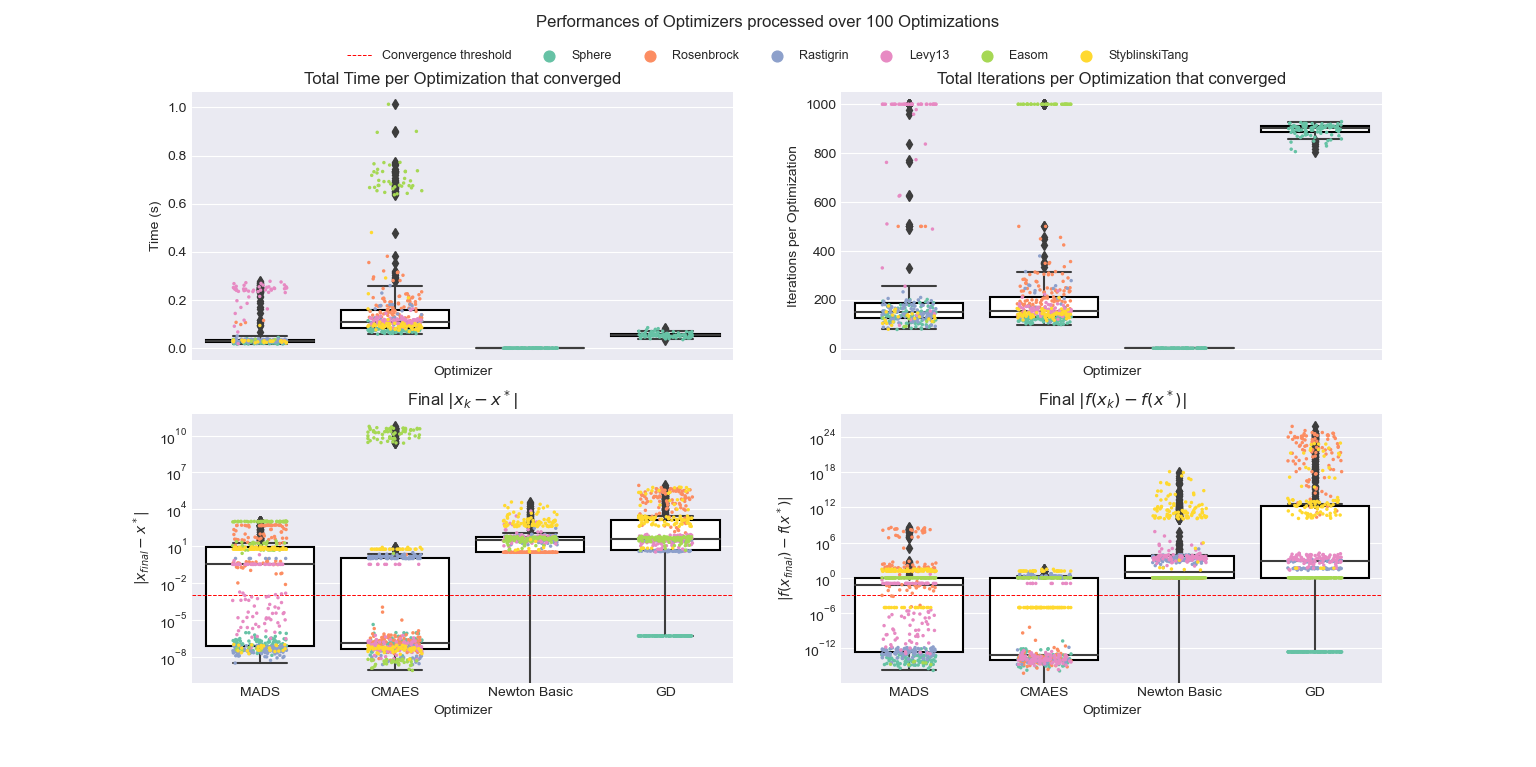
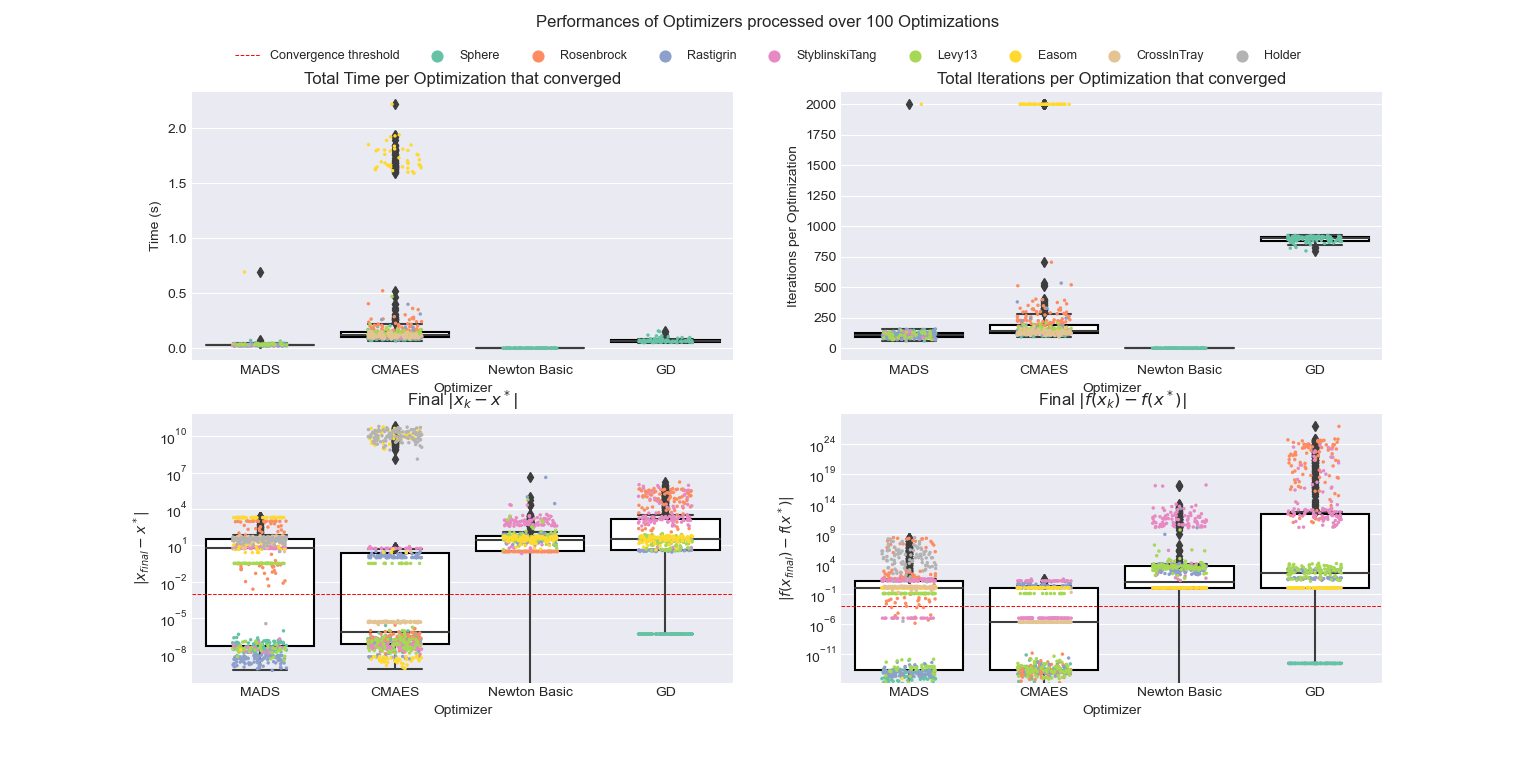
Compute statistics and print in terminal and in latex

diff --git a/utils/graph.py b/utils/graph.py
@@ -1,6 +1,7 @@
 import numpy as np
 import matplotlib.pyplot as plt
 import seaborn as sns
+import pandas as pd
 
 
 def plot_track(track, opt, name):
@@ -34,7 +35,7 @@ def plot_track(track, opt, name):
 
 def plot_box(data, func_names, n_iter, cv_threshold=1e-3):
     plt.style.use("seaborn-darkgrid")
-    fig, axes = plt.subplots(nrows=2, ncols=2, sharex=True)
+    fig, axes = plt.subplots(nrows=2, ncols=2)
 
     infos = {
         "Timestamp": (axes[0, 0], "Time (s)", "Total Time per Optimization that converged"),
@@ -42,6 +43,7 @@ def plot_box(data, func_names, n_iter, cv_threshold=1e-3):
         "Finalxoptdiff": (axes[1, 0], r"$\|x_{final}-x^*\|$", r"Final $\|x_k-x^*\|$"),
         "Finalfoptdiff": (axes[1, 1], r"$|f(x_{final})-f(x^*)|$", r"Final $|f(x_k)-f(x^*)|$"),
     }
+
     boxprops = {'edgecolor': 'k', 'facecolor': 'w'}
     for col in data.columns:
         if col != 'Optimizer' and col != 'Function':
@@ -52,12 +54,10 @@ def plot_box(data, func_names, n_iter, cv_threshold=1e-3):
                 ax.axhline(y=cv_threshold, color='r', linestyle='--', label='Convergence threshold', linewidth=0.7)
                 ax.set_yscale("log")
             else:
-                data_cv = data.loc[data["Finalfoptdiff"] <= cv_threshold]  # keep only optimizations that converged for stripplot
+                data_cv = data.loc[(data["Finalfoptdiff"] <= cv_threshold) & (data["Finalxoptdiff"] <= cv_threshold)]  # keep only optimizations that converged for stripplot
                 sns.boxplot(x=data['Optimizer'], y=data_cv[col], ax=ax, boxprops=boxprops)
                 sns.stripplot(x=data_cv['Optimizer'], y=data_cv[col], jitter=0.2, size=2.5, ax=ax, hue=data['Function'], palette="Set2")
             ax.set_ylabel(infos[col][1])
-            if col in ["Finalxoptdiff", "Finalfoptdiff"]:
-                ax.set_yscale("log")
             ax.set_title(infos[col][2])
             if col != "Finalfoptdiff":
                 ax.legend_.remove()  # removing subplots legends
@@ -68,3 +68,90 @@ def plot_box(data, func_names, n_iter, cv_threshold=1e-3):
     fig.legend(handles, labels, ncol=len(func_names) + 1, loc='upper center', bbox_to_anchor=(0.5, 0.95), prop={'size': 9})
 
     fig.suptitle("Performances of Optimizers processed over %d Optimizations" % (n_iter))
+
+def print_table(data, opts_list, func_names, n_iter, cv_matrix, print_setup="{:.1f}%", table_title="Table", latex=False):
+    width = 15
+    add_width_first_col = 10
+    nb_col = (len(func_names) + 1)
+    total_line_width = nb_col * (width + 1) + add_width_first_col + 1
+    for name in func_names: # adjusting total line width for title
+        if len(name) + 2 > width:
+            total_line_width += len(name) + 2 - width
+    print("-" * (total_line_width))
+    print("|" + table_title.center(total_line_width - 2) + "|")
+    print("-" * (total_line_width))
+    first_line = "|" + "Optimizer".center(width + add_width_first_col) + "|"
+    for name in func_names:
+        first_line += name.center(max(width, len(name) + 2)) + "|"
+    print(first_line)
+    print("-" * (total_line_width))
+    for opt in opts_list:
+        line = "|" + opt.center(width + add_width_first_col) + "|"
+        for name in func_names:
+            if cv_matrix.loc[opt, name]:
+                line += print_setup.format(data.loc[opt, name]).center(max(width, len(name) + 2)) + "|"
+            else:
+                if "%" in print_setup:
+                    line += print_setup.format(0).center(max(width, len(name) + 2)) + "|"
+                else:
+                    line += "/".center(max(width, len(name) + 2)) + "|"
+        print(line)
+    print("-" * (total_line_width) + "\n")
+
+    if latex:
+        print(table_title)
+        first_line = "Optimizer"
+        for name in func_names:
+            first_line += " & " + name
+        print(first_line + " \\\\")
+        for opt in opts_list:
+            line = opt
+            for name in func_names:
+                if cv_matrix.loc[opt, name]:
+                    line += " & " + print_setup.format(data.loc[opt, name])
+                else:
+                    if "%" in print_setup:
+                        line += " & " + print_setup.format(0)
+                    else:
+                        line += " & /"
+            print(line.replace("%", "\%") + " \\\\")
+
+def print_statistics(data, opts_list, func_names, n_iter, cv_threshold, latex=False):
+    data_cv = data.loc[(data["Finalfoptdiff"] <= cv_threshold) & (data["Finalxoptdiff"] <= cv_threshold)]
+    cv_stats = pd.pivot_table(data_cv, values='Finalfoptdiff', index='Optimizer', columns='Function', aggfunc=len, fill_value=0)
+    cv_stats = cv_stats.multiply(100/n_iter)
+    time_stats = pd.pivot_table(data_cv, values=['Timestamp', 'NbIter'], index='Optimizer', columns='Function', aggfunc=np.mean, fill_value=0)
+    
+    cv_matrix = pd.DataFrame(np.zeros((len(opts_list), len(func_names)), dtype=bool), columns=func_names, index=opts_list)
+    for opt in opts_list:
+        for name in func_names:
+            if opt in cv_stats.index and name in cv_stats.columns:
+                cv_matrix.loc[opt, name] = cv_stats.loc[opt, name] > 0
+
+    print_table(cv_stats,
+        opts_list,
+        func_names,
+        n_iter,
+        cv_matrix,
+        print_setup="{:.0f}%",
+        table_title="Percentage of  Optimization that converged",
+        latex=latex
+        )
+    print_table(time_stats['Timestamp'],
+        opts_list,
+        func_names,
+        n_iter,
+        cv_matrix,
+        print_setup="{:.3f}s",
+        table_title="Average duration of optimizations that converged (Time in seconds)",
+        latex=latex
+        )
+    print_table(time_stats['NbIter'],
+        opts_list,
+        func_names,
+        n_iter,
+        cv_matrix,
+        print_setup="{:.0f}",
+        table_title="Average number of iterations per optimization that converged",
+        latex=latex
+        )

diff --git a/main.py b/main.py
@@ -74,7 +74,7 @@ def init_optimizers(n, name, opts_list, **kwargs):
             ftol=ftol,
             xtol=xtol,
             learning_rate=params.pop("learning_rate", 10),
-            lambd=params.pop("lambd", 10),
+            lambd=params.pop("lambd", None),
         )
     if "Newton Line Search" in opts_list:
         params = kwargs.pop("Newton Line Search", {})
@@ -169,11 +169,11 @@ def draw_x0(name, cons, xmin=-50, xmax=50):
     return x0
 
 
-def plot_box(opts_list, hp, nb_iter=10, dim=2, names=['Sphere'], cv_threshold=CONVERGENCE_THRESHOLD):
+def plot_box(opts_list, hp, n_iter=10, dim=2, names=['Sphere'], cv_threshold=CONVERGENCE_THRESHOLD, latex=False):
     data = []
     for name in names:
         print("\n%s\n" % "Optimization for {:s} function starting".format(name).center(150, "-"))
-        for _ in tqdm(range(nb_iter), total=nb_iter):
+        for _ in tqdm(range(n_iter), total=n_iter):
             opts, cons = init_optimizers(dim, name, opts_list=opts_list, **hp[name])
             x0 = draw_x0(name, cons)
             for opt in opts_list:
@@ -187,13 +187,14 @@ def plot_box(opts_list, hp, nb_iter=10, dim=2, names=['Sphere'], cv_threshold=CO
 
                 data.append([opt, name, np.sum(timeperiter[1:]), len(track) - 1, xoptdiffs[-1], foptdiffs[-1]])
     data = pd.DataFrame(data, columns=['Optimizer', 'Function', 'Timestamp', 'NbIter', 'Finalxoptdiff', 'Finalfoptdiff'])
-    graph.plot_box(data, names, nb_iter, cv_threshold=CONVERGENCE_THRESHOLD)
+    graph.print_statistics(data, opts_list, names, n_iter, cv_threshold=CONVERGENCE_THRESHOLD, latex=latex)
+    graph.plot_box(data, names, n_iter, cv_threshold=CONVERGENCE_THRESHOLD)
     plt.show()
 
 
 if __name__ == "__main__":
     # Main parameters
-    dim = 5
+    dim = 2
     constrained = False
 
     # Objective function
@@ -210,8 +211,9 @@ if __name__ == "__main__":
         if dim == 2:
             names += ["Levy13"]
             names += ["Easom"]
-            # names += ["CrossInTray"]
-            # names += ["Holder"]
+            names += ["CrossInTray"]
+            names += ["Holder"]
+            pass
 
     opts_list = []
     if constrained:
@@ -220,32 +222,43 @@ if __name__ == "__main__":
         opts_list += ["Newton Line Search"]
         opts_list += ["Newton Log Barrier"]
     else:
-        # opts_list += ["MADS"]
-        # opts_list += ["CMAES"]
+        opts_list += ["MADS"]
+        opts_list += ["CMAES"]
         opts_list += ['Newton Basic']
-        # opts_list += ["GD"]
+        opts_list += ["GD"]
 
     # hp template
     hyperparameters = defaultdict(lambda: {})
 
     hyperparameters["Rosenbrock"] = {
-        'max_iter': 500
+        'max_iter': 1000
     }
 
     hyperparameters["Rastigrin"] = {
         'CMAES': {
-            'lambd': None
+            'lambd': int(2 * np.log(dim) * 4 + int(3 * np.log(dim)))
         }
     }
 
     hyperparameters["StyblinskiTang"] = {
-        'xtol': -1
+        'xtol': -1,
+        'CMAES': {
+            'lambd': int(2 * np.log(dim) * 4 + int(3 * np.log(dim)))
+        }
     }
 
     hyperparameters["Easom"] = {
+        'max_iter': 2000,
         'ftol': -1,
         'CMAES': {
-            'lambd': None
+            'lambd': int(2 * np.log(dim) * 4 + int(3 * np.log(dim)))
+        }
+    }
+
+    hyperparameters["Holder"] = {
+        'ftol': -1,
+        'CMAES': {
+            'lambd': int(2 * np.log(dim) * 4 + int(3 * np.log(dim)))
         }
     }
 
@@ -262,12 +275,16 @@ if __name__ == "__main__":
     }
 
     hyperparameters["StyblinskiTangWithPosCons"] = {
+        'xtol': -1,
+        'CMAES': {
+            'lambd': int(2 * np.log(dim) * 4 + int(3 * np.log(dim)))
+        },
         "Newton Line Search": {
             "epsilon": 1e-8
         }
     }
 
-    # plot_box(opts_list=opts_list, hp=hyperparameters, nb_iter=100, dim=dim, names=names)
+    plot_box(opts_list=opts_list, hp=hyperparameters, n_iter=100, dim=dim, names=names, latex=False)
 
-    x0 = np.array([2, 2, 2, 2, 2]).reshape(-1, 1)
-    plot_optimization(names[1], opts_list, x0, hyperparameters)
+    # x0 = np.array([-50, -50]).reshape(-1, 1)
+    # plot_optimization(names[0], opts_list, x0, hyperparameters)

diff --git a/funcplot.py b/funcplot.py
@@ -21,27 +21,27 @@ PARAMS = {
         "min2D": r"$x^*=(1,1)$",
         "fopt": r"$f(x^*)=0$"
     },
-    "StyblinskiTang": {
-        "semiwidth": 5,
-        "min": r"$x^*=(-2.903534,...,-2.903534)$",
-        "min2D": r"$x^*=(-2.903534,-2.903534)$",
-        "fopt": r"$f(x^*) \approx -39.16617n$"
-    },
-    # "Easom": {
-    #     "semiwidth": 5,
-    #     "min2D": r"$x^*=(\pi,\pi)$",
-    #     "fopt": r"$f(x^*)=-1$"
-    # },
     "Rastigrin": {
         "semiwidth": 5,
         "min": r"$x^*=(0,...,0)$",
         "min2D": r"$x^*=(0,0)$",
         "fopt": r"$f(x^*)=0$"
     },
+    "StyblinskiTang": {
+        "semiwidth": 5,
+        "min": r"$x^*=(-2.903534,...,-2.903534)$",
+        "min2D": r"$x^*=(-2.903534,-2.903534)$",
+        "fopt": r"$f(x^*) \approx -39.16617n$"
+    },
     # "Levy13": {
     #     "semiwidth": 5,
     #     "min2D": r"$x^*=(1,1)$",
     #     "fopt": r"$f(x^*)=0$"
+    # },
+    # "Easom": {
+    #     "semiwidth": 5,
+    #     "min2D": r"$x^*=(\pi,\pi)$",
+    #     "fopt": r"$f(x^*)=-1$"
     # },
     # "Holder": {
     #     "semiwidth": 5,
@@ -74,7 +74,7 @@ for idx, name in enumerate(PARAMS.keys()):
         for j in range(len(XY[i])):
             Z[i, j] = f(name, XY[i, j].reshape(-1, 1))
 
-    surf = ax.plot_surface(X, Y, Z, rstride=1, cstride=1, cmap=cm.Spectral,
+    surf = ax.plot_surface(X, Y, Z, rstride=1, cstride=1, cmap=cm.rainbow,
                            linewidth=0, antialiased=False)
     ax.set_title(name + "\n" + PARAMS[name]["min"] + "\n" + PARAMS[name]["fopt"], fontsize=7)
 plt.show()

diff --git a/functions/ddfunctions.py b/functions/ddfunctions.py
@@ -195,4 +195,4 @@ def fHolder(x, y):
 
 
 def fCrossInTray(x, y):
-    return -0.0001 * (np.abs(np.sin(x) * np.sin(y) * np.exp(np.abs(100 - np.sqrt(x**2 + y**2) / np.pi))) + 1)**0.1
+    return -0.0001 * (np.abs(np.sin(x) * np.sin(y) * np.exp(np.abs(100 - np.sqrt(x**2 + y**2)/PI))) + 1)**0.1
